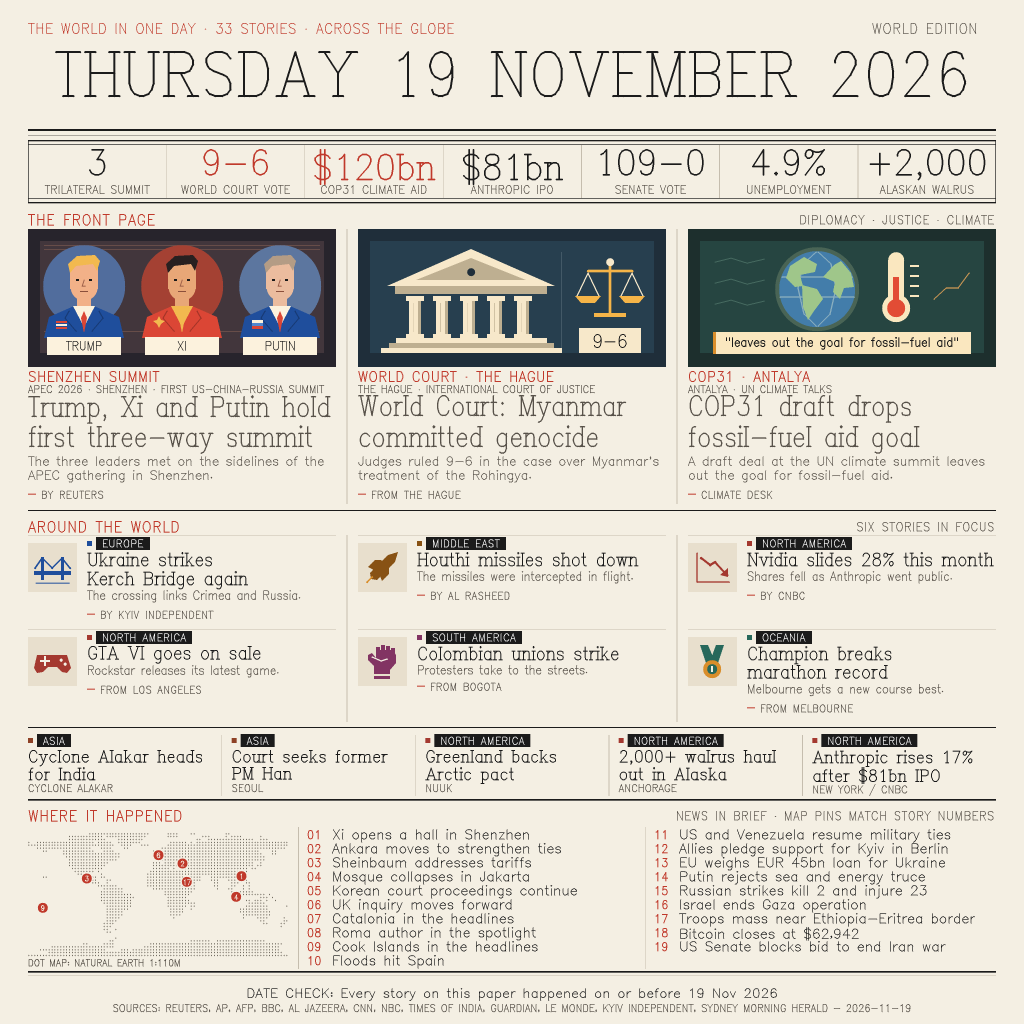
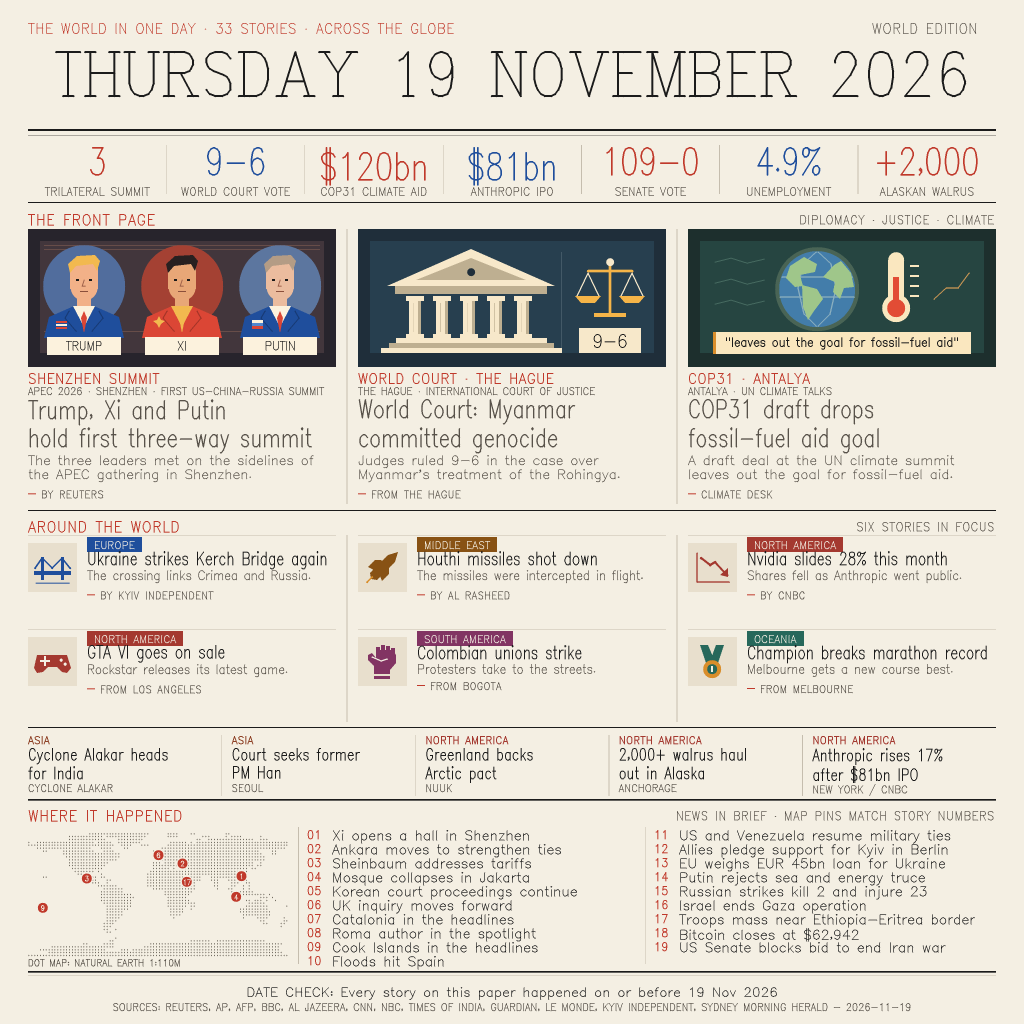
revert to v9 config (v10 serif-everywhere regressed the judge score)

diff --git a/main.py b/main.py
@@ -199,11 +199,13 @@ def condensed(width, font=SANS):
             for c,(left,right,strokes) in font.items()}
 
 
+HEADLINE = condensed(0.72)
 TAG = condensed(0.86)
 
-# Rowmans shares its letter skeletons with futural. Give the display faces
-# visible serifs at the stem terminals, with room for the stroked ends.
-CAP_TERMINALS = {
+# Add bracket-like terminals to the masthead capitals and widen their
+# bearings slightly where the serifs reach beyond the original glyphs.
+MASTHEAD = dict(ROMAN)
+for letter, terminals in {
     'A': ((-8, 9), (8, 9)), 'B': ((-7, -12), (-7, 9)),
     'D': ((-7, -12), (-7, 9)), 'E': ((-6, -12), (-6, 9)),
     'H': ((-7, -12), (7, -12), (-7, 9), (7, 9)),
@@ -212,37 +214,12 @@ CAP_TERMINALS = {
     'R': ((-7, -12), (-7, 9), (7, 9)), 'T': ((0, 9),),
     'U': ((-7, -12), (7, -12)), 'V': ((-8, -12), (8, -12)),
     'Y': ((-8, -12), (8, -12), (0, 9)), '1': ((1, 9),),
-}
-
-
-def serif_face(terminals, serif_width):
-    face = dict(ROMAN)
-    for letter, ends in terminals.items():
-        left, right, strokes = face[letter]
-        serifs = tuple(((x-serif_width, y), (x+serif_width, y)) for x, y in ends)
-        face[letter] = (min(left, min(x-serif_width-1 for x, _ in ends)),
-                        max(right, max(x+serif_width+1 for x, _ in ends)), strokes+serifs)
-    return face
-
-
-MASTHEAD = condensed(.82, serif_face(CAP_TERMINALS, 3))
-EDITORIAL_ROMAN = serif_face({**CAP_TERMINALS,
-    'F': ((-6, -12), (-6, 9)), 'I': ((0, -12), (0, 9)), 'J': ((4, -12),),
-    'K': ((-7, -12), (-7, 9), (7, -12), (7, 9)), 'L': ((-6, -12),),
-    'P': ((-7, -12), (-7, 9)), 'W': ((-10, -12), (0, -12), (10, -12)),
-    'X': ((-7, -12), (7, -12), (-7, 9), (7, 9)),
-    'a': ((6, 9),), 'b': ((-6, -12),), 'd': ((6, -12), (6, 9)),
-    'f': ((0, 9),), 'h': ((-5, -12), (-5, 9), (6, 9)),
-    'i': ((0, -5), (0, 9)), 'j': ((1, -5),),
-    'k': ((-5, -12), (-5, 9), (6, 9)), 'l': ((0, -12), (0, 9)),
-    'm': ((-11, -5), (-11, 9), (0, 9), (11, 9)),
-    'n': ((-5, -5), (-5, 9), (6, 9)), 'p': ((-6, -5), (-6, 16)),
-    'q': ((6, 16),), 'r': ((-3, -5), (-3, 9)),
-    'u': ((-5, -5), (6, -5), (6, 9)), 'v': ((-6, -5), (6, -5)),
-    'w': ((-8, -5), (0, -5), (8, -5)), 'y': ((-6, -5), (6, -5)),
-}, 2.8)
-HEADLINE = condensed(.88, EDITORIAL_ROMAN)
-HERO_HEADLINE = condensed(.79, EDITORIAL_ROMAN)
+}.items():
+    left, right, strokes = ROMAN[letter]
+    serifs = tuple(((x-3, y), (x+3, y)) for x, y in terminals)
+    MASTHEAD[letter] = (min(left, min(x-4 for x, y in terminals)),
+                        max(right, max(x+4 for x, y in terminals)), strokes + serifs)
+MASTHEAD = condensed(.82, MASTHEAD)
 
 
 class Page:
@@ -494,11 +471,9 @@ def column_rules(page, top, bottom):
 
 
 def desk_chip(page, desk, x, y):
-    size, tracking = 7.5, .65
-    width = math.ceil(measure(desk, size, TAG, tracking))+12
-    page.rect(x, y+4, 5, 5, DESK_COLORS[desk])
-    page.rect(x+9, y, width, 13, INK)
-    label(page, desk, x+15, y+2.5, width-10, size, (255, 255, 255), tracking=tracking)
+    width = math.ceil(measure(desk, 7.5, TAG, .48))+14
+    page.rect(x, y, width, 15, DESK_COLORS[desk])
+    label(page, desk, x+7, y+4, width-13, 7.5, PAPER, tracking=.48)
 
 
 def masthead(page, count):
@@ -518,19 +493,15 @@ def stats_bar(page):
         ('109-0', 'SENATE VOTE'), ('4.9%', 'UNEMPLOYMENT'), ('+2,000', 'ALASKAN WALRUS'),
     )
     cell = WIDTH/len(stats)
-    for y, thickness in ((140, 1.5), (144, .5), (198, .5), (202, 1.5)):
-        page.rect(EDGE, y, WIDTH, thickness, INK)
-    for x in (EDGE, EDGE+WIDTH-.5):
-        page.rect(x, 140, .5, 63.5, INK)
     for index, (number, title) in enumerate(stats):
         x = EDGE+index*cell
         first = len(page.text_boxes)
         if index:
-            page.rect(x, 145, .5, 53, RULE)
-        color = RED if number in ('9-6', '$120bn') else INK
-        centered(page, number, x+4, 149, cell-8, 25, color, weight=5, font=HEADLINE)
-        centered(page, title, x+4, 185, cell-8, 8, GREY, font=TAG, tracking=.4)
+            page.rect(x, 145, .5, 49, RULE)
+        centered(page, number, x+4, 147, cell-8, 27, (RED, BLUE)[index % 2], weight=5, font=HEADLINE)
+        centered(page, title, x+4, 187, cell-8, 8, GREY, font=TAG, tracking=.4)
         check_bounds(page, first, x+4, 145, cell-8, 53)
+    page.rect(EDGE, 202, WIDTH, 1, INK)
 
 
 class Illustration:
@@ -701,19 +672,16 @@ def hero_row(page):
         first = len(page.text_boxes)
         draw(Illustration(page, x, art_top, COLUMN, 138))
         copy_start = len(page.text_boxes)
-        label(page, title, x, 371, COLUMN, 10, RED, weight=3, tracking=.7)
-        label(page, caption, x, 385, COLUMN, 7.3, tracking=.25)
-        headline_size = 19.8
-        headline_lines = wrap(' '.join(lines), headline_size, COLUMN-5, HERO_HEADLINE)
-        assert len(headline_lines) == 2, (title, headline_lines)
-        for line_index, line in enumerate(headline_lines):
-            label(page, line, x, 395+line_index*30, COLUMN, headline_size, weight=4,
-                  font=HERO_HEADLINE, tracking=.15)
-        detail_size = 8.5
+        label(page, title, x, 373, COLUMN, 10, RED, weight=3, tracking=.7)
+        label(page, caption, x, 387, COLUMN, 7.3, tracking=.25)
+        for line_index, line in enumerate(lines):
+            label(page, line, x, 399+line_index*28, COLUMN, 18, weight=4,
+                  font=HEADLINE, tracking=.15)
+        detail_size = 9
         detail_lines = wrap(detail, detail_size, COLUMN-3, SANS)
         assert len(detail_lines) == 2, (source, detail_lines)
         for line_index, line in enumerate(detail_lines):
-            label(page, line, x, 456+line_index*14, COLUMN, detail_size, font=SANS, tracking=0)
+            label(page, line, x, 455+line_index*14, COLUMN, detail_size, font=SANS, tracking=0)
         byline(page, source, x, COLUMN, bottom)
         # Consecutive text blocks must have visible clearance, including descenders.
         copy = page.text_boxes[copy_start:]
@@ -778,15 +746,10 @@ def secondary_grid(page):
         headline_size, leading = 12.5, 19
         lines = wrap(headline, headline_size, inner-3, HEADLINE)
         assert 1 <= len(lines) <= 2
-        if len(lines) == 2:
-            words = headline.split()
-            breaks = [(' '.join(words[:i]), ' '.join(words[i:])) for i in range(1, len(words))]
-            lines = min(breaks, key=lambda pair: max(measure(line, headline_size, HEADLINE)
-                                                     for line in pair))
         for line_index, line in enumerate(lines):
-            label(page, line, tx, y+17+line_index*leading, inner, headline_size, INK, weight=3,
+            label(page, line, tx, y+16+line_index*leading, inner, headline_size, INK, weight=3,
                    font=HEADLINE, tracking=.1)
-        label(page, detail, tx, y+17+len(lines)*leading, inner, 8.6, font=TAG, tracking=0)
+        label(page, detail, tx, y+16+len(lines)*leading, inner, 9, font=TAG, tracking=0)
         byline(page, source, tx, inner, y+94)
         check_bounds(page, first, x, y, COLUMN, 94)
         page.rendered.append(headline)
@@ -802,9 +765,9 @@ def dispatch_row(page):
         first = len(page.text_boxes)
         if index:
             page.rect(left, 735, .5, 61, RULE)
-        desk_chip(page, desk, x, 734)
+        label(page, desk, x, 736, inner, 7.5, DESK_COLORS[desk], weight=3, tracking=.55)
         for line_index, line in enumerate(headline.splitlines()):
-            label(page, line, x, 750+line_index*17, inner, 11.5, INK, weight=3, font=HEADLINE)
+            label(page, line, x, 748+line_index*18, inner, 11.5, INK, weight=3, font=HEADLINE)
         label(page, source, x, 784, inner, 7.3, tracking=.35)
         check_bounds(page, first, x, 735, inner, 61)
         page.rendered.append(headline)
@@ -840,16 +803,14 @@ def ticker(page):
     section_header(page, 'WHERE IT HAPPENED', 'NEWS IN BRIEF · MAP PINS MATCH STORY NUMBERS', 810)
     dot_map(page, EDGE, 827)
     label(page, 'DOT MAP: NATURAL EARTH 1:110M', EDGE, 959, 260, 6.5, tracking=.35)
-    top, row_height, rows = 829, 14, 10
     for col, x in enumerate((307, 654)):
-        page.rect(x-9, 827, .5, top+rows*row_height-827, RULE)
-        start = col*rows
-        for row, (headline, _) in enumerate(BULLETINS[start:start+rows]):
-            y = top+row*row_height
-            first = len(page.text_boxes)
-            label(page, f'{start+row+1:02d}', x, y+1, 22, 8.3, RED, weight=3, tracking=.55)
+        page.rect(x-9, 827, .5, 137, RULE)
+        for row, (headline, _) in enumerate(BULLETINS[col*10:(col+1)*10]):
+            number = col*10+row+1
+            row_height = 14
+            y = 830+row*row_height
+            label(page, f'{number:02d}', x, y, 22, 8.3, RED, weight=3, tracking=.55)
             label(page, headline, x+25, y, 309, 9.2, INK, font=SANS, tracking=.05)
-            check_bounds(page, first, x, y, 334, row_height)
             page.rendered.append(headline)
 
 
@@ -857,10 +818,10 @@ def footer(page):
     page.rect(EDGE, 971, WIDTH, 1.5, INK)
     page.rect(EDGE, 975, WIDTH, .5, RULE)
     centered(page, 'DATE CHECK: Every story on this paper happened on or before 19 Nov 2026',
-             EDGE, 988, WIDTH, 8.8, INK, weight=2, tracking=.22)
+             EDGE, 987, WIDTH, 8.8, INK, weight=2, tracking=.22)
     centered(page, 'SOURCES: REUTERS, AP, AFP, BBC, AL JAZEERA, CNN, NBC, TIMES OF INDIA, GUARDIAN, '
              'LE MONDE, KYIV INDEPENDENT, SYDNEY MORNING HERALD — 2026-11-19',
-             EDGE, 1004, WIDTH, 7.2, GREY, font=TAG, tracking=.32)
+             EDGE, 1003, WIDTH, 7.2, GREY, font=TAG, tracking=.32)
 
 
 def main():
